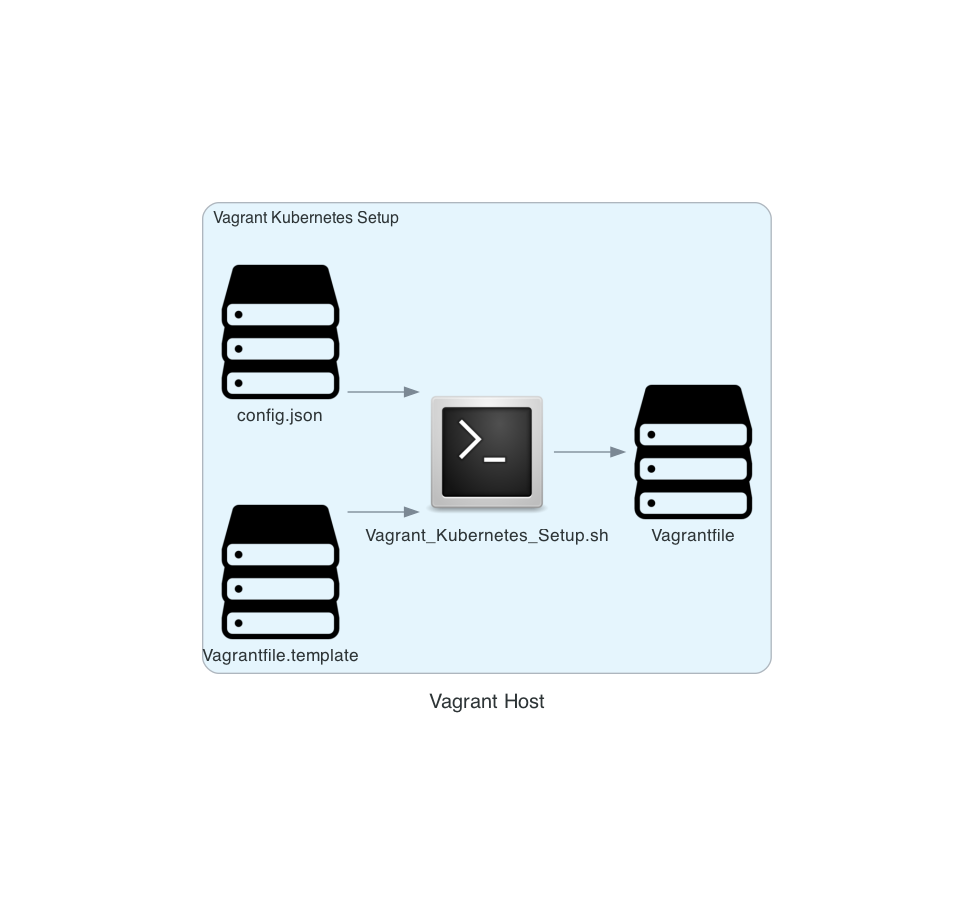
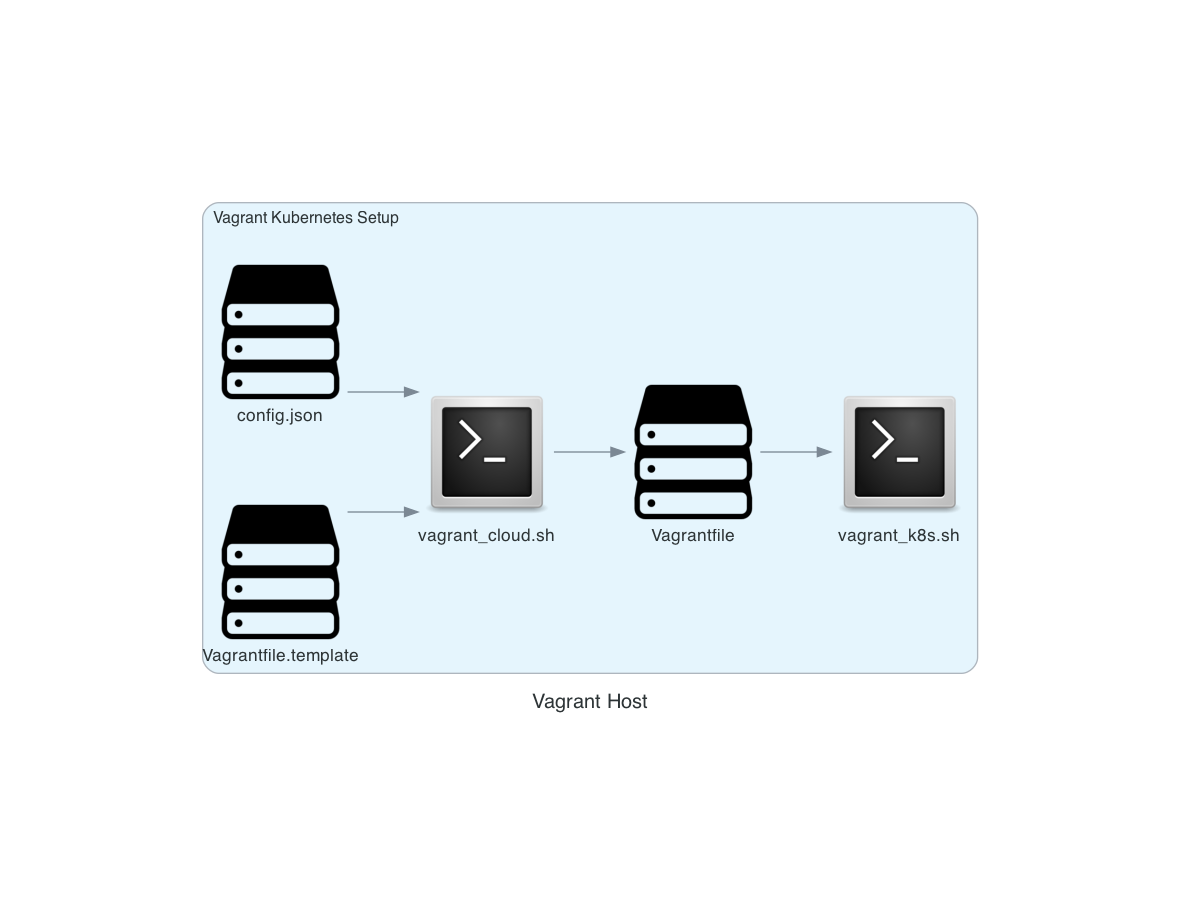
split Vagrant_Kubernetes_Setup.sh into 2

Changed region(s): [[0.154, 0.2159, 0.8316, 0.7401], [0.4312, 0.7401, 0.5544, 0.8018]]

diff --git a/diagrams/Vagrant_Kubernetes.py b/diagrams/Vagrant_Kubernetes.py
@@ -16,11 +16,13 @@ with Diagram("Vagrant Host", show=False, filename=CHART_NAME):
     with Cluster("Vagrant Kubernetes Setup"):
         config_json = Storage("config.json")
         vagrant_template = Storage("Vagrantfile.template")
-        vagrant_script = Bash("Vagrant_Kubernetes_Setup.sh")
+        vagrant_script1 = Bash("vagrant_cloud.sh")
         vagrant_file = Storage("Vagrantfile")
+        vagrant_script2 = Bash("vagrant_k8s.sh")
 
-    config_json  >> vagrant_script
-    vagrant_template >> vagrant_script
-    vagrant_script >> vagrant_file
+    config_json  >> vagrant_script1
+    vagrant_template >> vagrant_script1
+    vagrant_script1 >> vagrant_file
+    vagrant_file >> vagrant_script2
 
 Image(filename=f"{CHART_NAME}.png")

diff --git a/README.md b/README.md
@@ -5,17 +5,21 @@ Sets up a cluster of vagrant nodes, then uses `kubespray` to install a k8s clust
 
 ![Kubernetes Diagram](./diagrams/k8s.png)
 
-Script `Vagrant_Kubernetes_Setup.sh` co-odinates eveything. It takes verbs `BACKUP`, `RECOVER`, `UP_ONLY`, and `SKIP_UP`.
+Scripts `vagrant_cloud.sh` and `vagrant_k8s.sh` co-odinate eveything.
 
-`BACKUP` assumes that the cluster is up. It does a `vagrant susped` then copied the contents of .vagrant to a backup directory based on the time of the back, before doing a `vagrant resume`.
+`vagrant_cloud.sh` creates the instances in Vagrant.
 
-`RECOVERY` takes an extra argument of the backup to recover. It also assumes that the cluster is up and suspends vagrant, then copies all the files from the backup directory back to .vagrant before doing a `vagrant resume`.
+`vagrant_k8s.sh` turns those instances into a kubernetes cluster using `Kubespray`.
 
-`UP_ONLY` just does as far as the vagrant up in the description below, then exists.
+Script `run_vagrant_cloud`.sh` runs `vagrant_cloud.sh` as a background job and logs the output to `./vagrant_cloud.log`.
 
-`SKIP_UP` does everything after the `vagrant up` in the description below. It also assumes that the cluster is up when it is run.
+Script `run_vagrant_k8s.sh` does same for `vagrant_k8s.sh`.
 
-Script `run_vagrant_kubernetes.sh` runs it as a background job and logs the output to `./vagrant_kubernetes.log`. To set up everything just run `run_vagrant_kubernetes.sh`, wait a while (for message `Script Vagrant_Kubernetes_Setup.sh has finished` to appear in the log file) then run `vagrant ssh node1` to access the 1st control node. When finished (after exiting the node), simply run `vagrant destroy -f` to get rid of the k8s cluster.
+To set up the instances run `run_vagrant_cloud.sh`, and wait a while for message `Script vagrant_cloud.sh has finished` to appear in the `vagrant_cloud.log` file.
+
+To set up the kubernetes cluster now run `run_vagrant_k8s.sh`, and wait a while for message `Script vagrant_k8s.sh has finished` to appear in the `vagrant_k8s.log` file.
+
+Now you can run `vagrant ssh node1` to access the 1st control node. When finished (after exiting the node), simply run `vagrant destroy -f` to get rid of the k8s cluster.
 
 ![Lower Level Diagram](./diagrams/Lower_Level.png)
 
@@ -23,4 +27,4 @@ The number of control plane nodes (default 1) and worker nodes (default 1) are d
 
 The Vagrantfile includes a provisioning script that brings each ubuntu node's OS up to date. The Vagrantfile is engineered to use an arm64 image if running on an arm64 platform (like a recent Mac) or x86 otherwise.
 
-`Vagrant_Kubernetes_Setup.sh` makes use of `~/.vagrant.d/insecure_private_key` to allow `node1` to ssh freely to each of the nodes (including itself). Before the script executes `kubespray` on node1 (that then takes charge of setting up all the nodes in the hosts.yaml), it takes time to ssh to each node from node1. 
+The scripts make use of `~/.vagrant.d/insecure_private_key` to allow `node1` to ssh freely to each of the nodes (including itself). Before the script `vagrant_k8s.sh` executes `kubespray` on node1 (that then takes charge of setting up all the nodes in the hosts.yaml), it takes time to ssh to each node from node1. 
